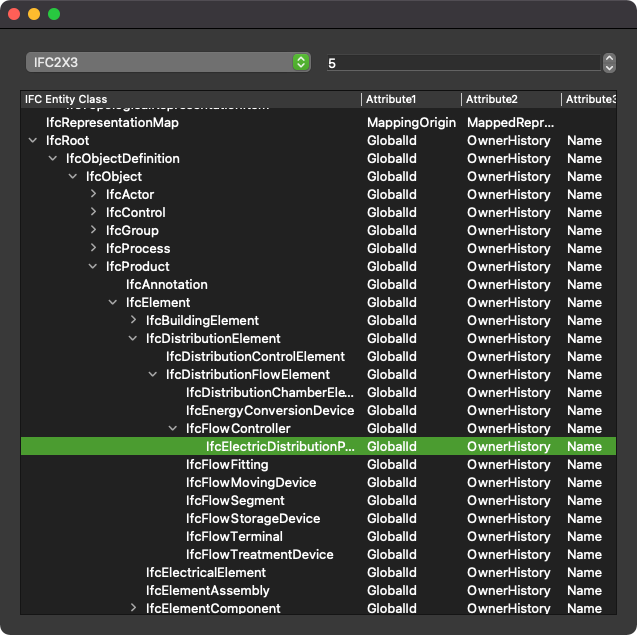
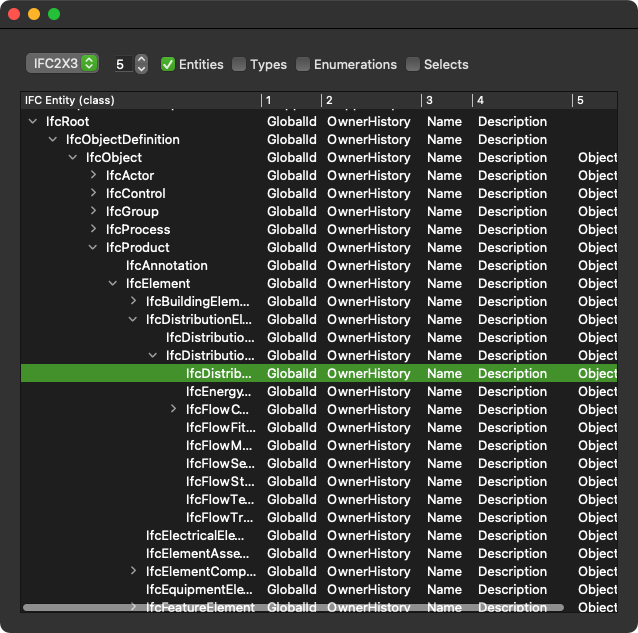
Updated Schema Viewer screenshot and README.md

diff --git a/GUI/README.md b/GUI/README.md
@@ -19,6 +19,7 @@ This is a more advanced viewer, where a second tree is used to display type, pro
 
 ## ifc_schemaviewer.py
 
-A small Tree view of the IFC schema. You can switch between IFC2X3 and IFC4.
+A Tree view of the IFC schema. You can switch between IFC2X3 and IFC4 and lower or increase the amount of columns to display.
+You can also toggle the display of the Entities, Types, Enumerations and Selects.
 
 ![result](images/ifc_schemaviewer.png)
